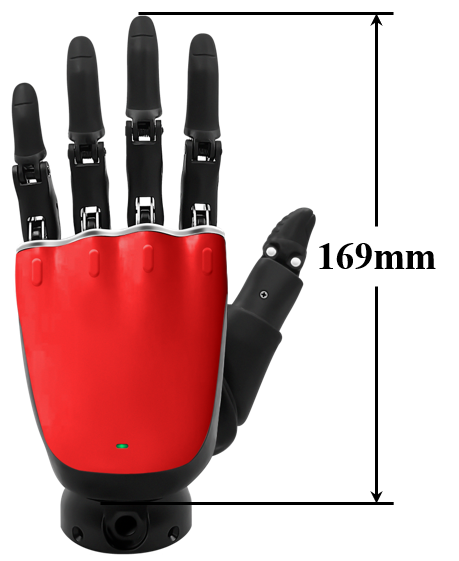
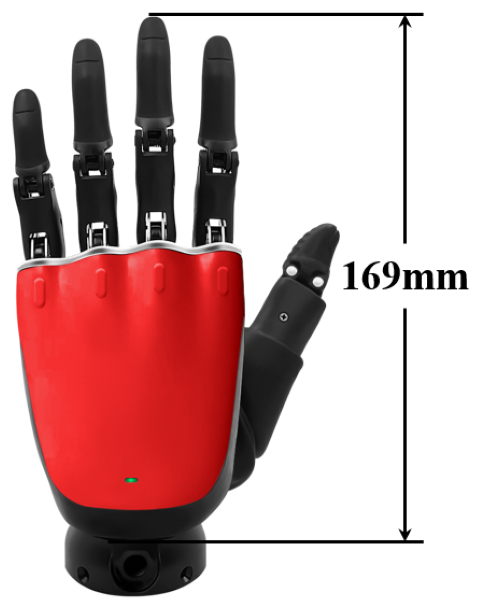
概述中添加AP002图片

diff --git a/docs/en/ROHand/Overview.md b/docs/en/ROHand/Overview.md
@@ -6,9 +6,9 @@ The ROHAND Dexterous Hand comprises 11 motion joints with 6 built-in motor drive
 
 ROHand Dexterous Hand provides UART, RS485([Download Driver](https://www.wch.cn/downloads/CH341SER_EXE.html){: target="_blank"}) or CAN([Download Driver](https://peak-system.com.cn/driver/){: target="_blank"}) physical interfaces, supports SerialCtrl dedicated serial protocol, ModBus-RTU protocol and CAN protocol, and can provide SDK for secondary development on ROS/ROS2 platforms. It is currently divided into the following versions:  
 
-|          ***ROH-A001/ROH-A002***          |          ***ROH-AP001***           |              ***ROH-LiteS001***              |
-| :---------------------------------------: | :--------------------------------: | :------------------------------------------: |
-| ![ROH-A001/ROH-A002](./imgs/ROH-A001.png) | ![ROH-AP001](./imgs/ROH-AP001.png) | <br>![ROH-LiteS001](./imgs/ROH-LiteS001.png) |
+|          ***ROH-A001/ROH-A002***          |          ***ROH-AP001***           |          ***ROH-AP002***           |              ***ROH-LiteS001***              |
+| :---------------------------------------: | :--------------------------------: | :--------------------------------: | :------------------------------------------: |
+| ![ROH-A001/ROH-A002](./imgs/ROH-A001.png) | ![ROH-AP001](./imgs/ROH-AP001.png) | ![ROH-AP002](./imgs/ROH-AP002.png) | ![ROH-LiteS001](./imgs/ROH-LiteS001.png) |
 
 ## Ready to Use Out of the Box
 

diff --git a/docs/zh/ROHand/Overview.md b/docs/zh/ROHand/Overview.md
@@ -6,9 +6,9 @@ ROHAND 灵巧手共有 11 个运动关节，内置 6 个电机驱动器和电机
 
 ROHand 灵巧手提供 UART、RS485([下载驱动](https://www.wch.cn/downloads/CH341SER_EXE.html){: target="_blank"}) 或 CAN([下载驱动](https://peak-system.com.cn/driver/){: target="_blank"}) 物理接口，支持 SerialCtrl 专用串行协议、ModBus-RTU 协议和 CAN 协议，可为 ROS / ROS2 平台提供二次开发 SDK。目前分为以下版本：
 
-|          ***ROH-A001/ROH-A002***          |          ***ROH-AP001***           |              ***ROH-LiteS001***              |
-| :---------------------------------------: | :--------------------------------: | :------------------------------------------: |
-| ![ROH-A001/ROH-A002](./imgs/ROH-A001.png) | ![ROH-AP001](./imgs/ROH-AP001.png) | <br>![ROH-LiteS001](./imgs/ROH-LiteS001.png) |
+|          ***ROH-A001/ROH-A002***          |          ***ROH-AP001***           |          ***ROH-AP002***           |            ***ROH-LiteS001***            |
+| :---------------------------------------: | :--------------------------------: | :--------------------------------: | :--------------------------------------: |
+| ![ROH-A001/ROH-A002](./imgs/ROH-A001.png) | ![ROH-AP001](./imgs/ROH-AP001.png) | ![ROH-AP002](./imgs/ROH-AP002.png) | ![ROH-LiteS001](./imgs/ROH-LiteS001.png) |
 
 ## 开箱使用
 
